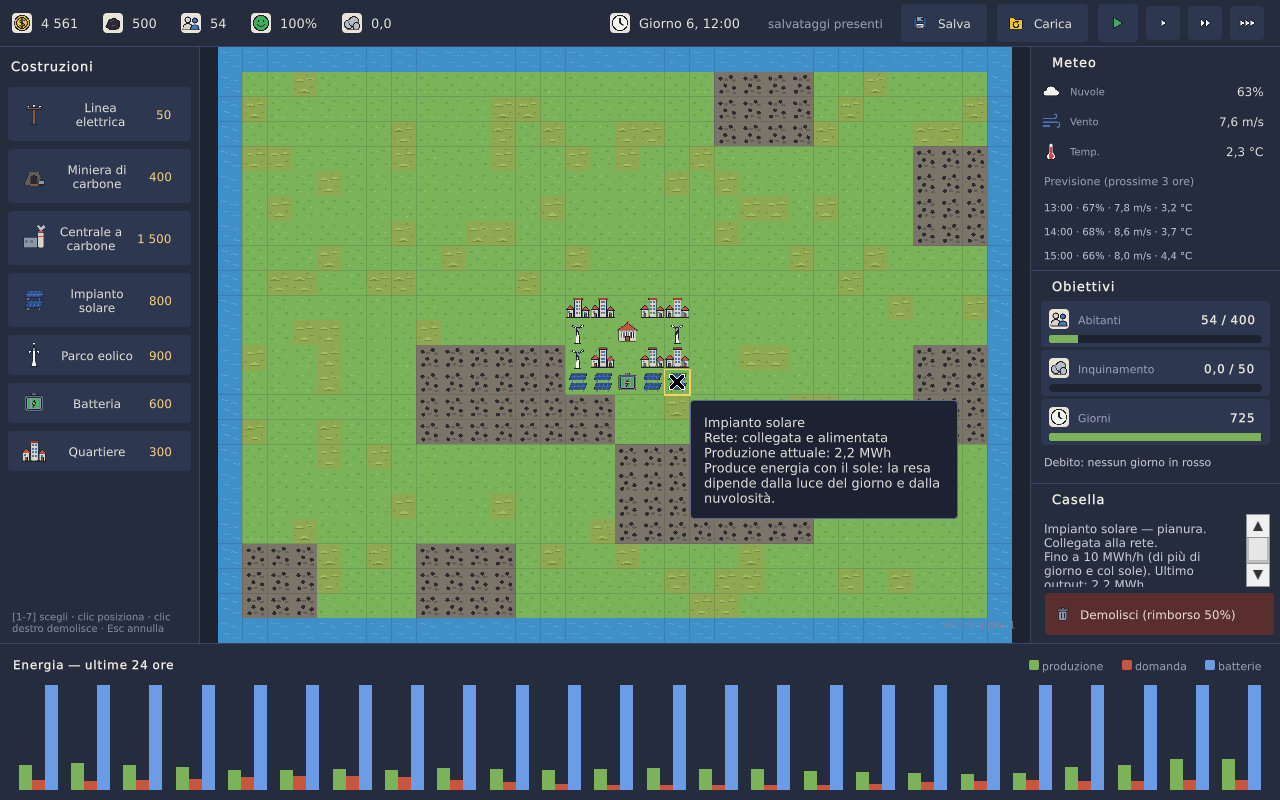
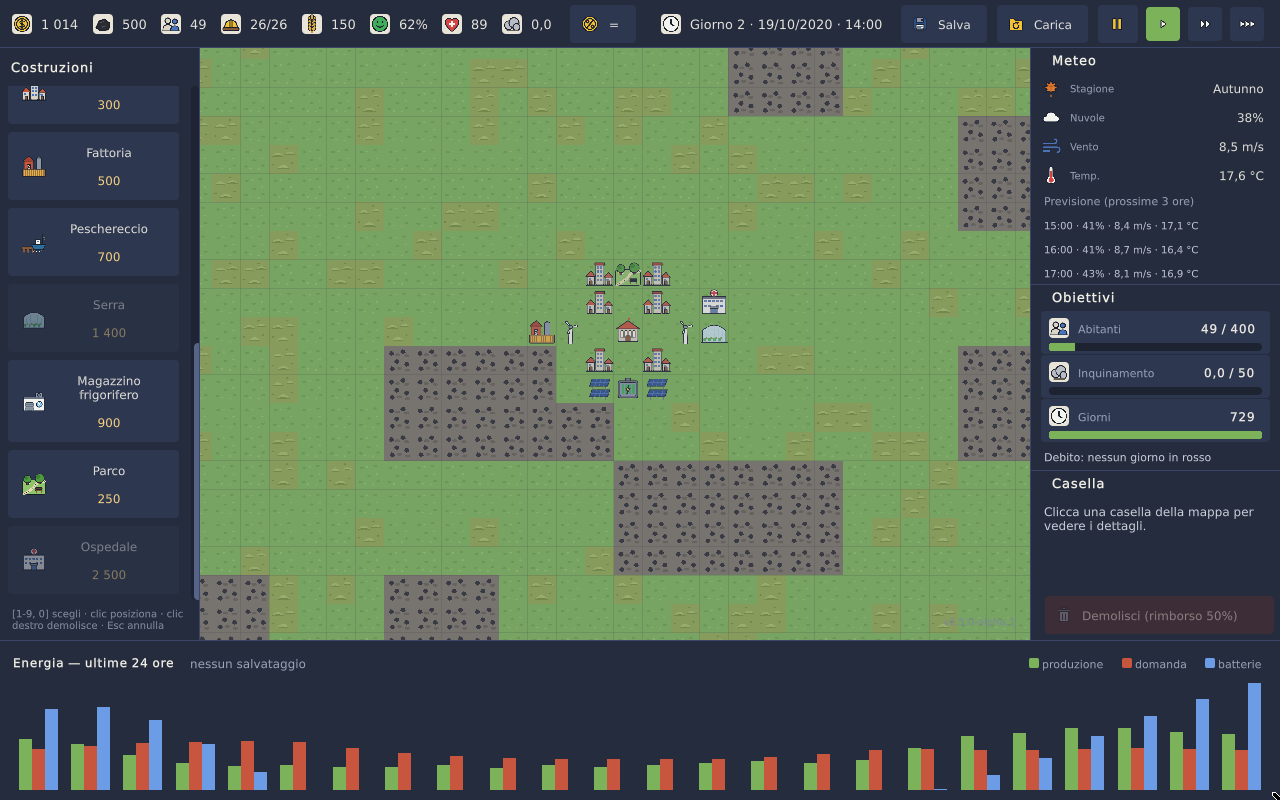
0.5.0-alpha.1: felicità, salute e tasse (README, CHANGELOG, schermata nuova)

diff --git a/README.it.md b/README.it.md
@@ -23,7 +23,7 @@ senza debiti e senza soffocarla di inquinamento.
 
 Un gioco originale di **Marco Scarlino**. Gratuito.
 
-![Una partita al sesto giorno: impianti solari, parchi eolici e una batteria attorno al municipio](immagini/schermata-partita.png)
+![Una partita al secondo giorno: attorno al municipio quartieri, impianti solari, parchi eolici, una batteria, una fattoria, una serra, un parco e un ospedale](immagini/schermata-partita.png)
 
 > **Stato: in sviluppo (alpha).** Il gioco si gioca dall'inizio alla fine, ma mancano ancora molte cose e qualcosa
 > può non funzionare. Ogni segnalazione aiuta: vedi [Segnalare un problema o un'idea](#segnalare-un-problema-o-unidea).
@@ -89,8 +89,8 @@ calendario: si parte in autunno, e d'inverno le giornate sono più corte e il ci
 - **Batterie**: accumulano l'energia in più e la restituiscono quando serve, per esempio la sera.
 - **Il surplus** si vende alla rete esterna, ma più ne offri e meno vale.
 - **Inquinamento**: le centrali a carbone inquinano e l'aria si pulisce piano. Una centrale si regge, troppe no.
-  Sopra la soglia la gente è scontenta e la città smette di crescere.
-- **Crescita**: la città cresce se gli abitanti sono contenti, c'è posto nei **quartieri** e c'è abbastanza
+  Fa ammalare gli abitanti, e sopra la soglia non si vince.
+- **Crescita**: la città cresce se gli abitanti sono abbastanza **felici**, c'è posto nei **quartieri** e c'è abbastanza
   **cibo** in magazzino.
 
 ### Lavoro e personale
@@ -102,9 +102,9 @@ Le costruzioni hanno bisogno di qualcuno che le faccia funzionare.
   **cibo** hanno bisogno di personale. Il pannello **Casella** mostra quanto ne hanno, per esempio **Personale: 8/10**.
 - Con poco personale una costruzione produce meno; **senza nessuno si ferma** e mostra il segnale **«senza
   personale»**.
-- I lavoratori vanno **prima all'energia**, poi **al cibo**, poi **alle miniere**, poi **ai servizi dei quartieri** (negozi, scuole
+- I lavoratori vanno **prima all'energia**, poi **al cibo**, poi **agli ospedali**, poi **alle miniere**, poi **ai servizi** (quartieri e parchi) (negozi, scuole
   di quartiere). I quartieri funzionano anche quando ai loro servizi manca personale.
-- La **disoccupazione** fa entrare meno tasse e, se è alta, rende gli abitanti un po' meno contenti.
+- La **disoccupazione** fa entrare meno tasse e, se è alta, rende gli abitanti meno felici.
 
 ### Cibo
 
@@ -123,6 +123,21 @@ sta per finire.
 - Il pannello **Casella** mostra quanto produce ogni costruzione (per esempio **Cibo: 2,0/h**), quanto spazio
   aggiunge un frigorifero e quanta energia consuma.
 
+### Felicità, salute e tasse
+
+- **Felicità** (lo smile nella barra in alto): si muove piano verso un valore che è la somma di alcuni fattori, cioè
+  blackout delle ultime 24 ore, cibo, fame, disoccupazione, inquinamento, salute, parchi e tasse. Passando il
+  mouse sul numero vedi verso quale valore sta andando e quanto pesa ogni fattore, per esempio «Blackout −5,0» o
+  «Parchi +3,0». Sotto 60 la città non cresce, e sotto 35 la gente comincia ad andarsene.
+- **Salute** (il cuore): cala con l'inquinamento e con la fame. I **malati restano a casa**, quindi ci sono meno
+  lavoratori, e una città poco sana è anche meno felice.
+- **Ospedale** (pianura): cura fino a 250 abitanti, ha bisogno di personale e consuma energia. Durante un
+  blackout non cura. Indispensabile se punti sul carbone.
+- **Parco** (pianura o collina): rende la gente più felice. Conta di più in una città piccola: ogni parco vale +3
+  ogni 100 abitanti, fino a +10.
+- **Tasse**: tre livelli, basse, normali e alte, con il pulsante con la moneta nella barra in alto o il tasto
+  **T**. Tasse alte portano più soldi ma meno felicità; tasse basse fanno il contrario.
+
 ### Comandi
 
 Passa il mouse su qualsiasi icona o pulsante: un riquadro spiega che cos'è. Fermandolo su una costruzione della
@@ -130,7 +145,7 @@ mappa vedi il suo stato e quanta energia produce o consuma.
 
 | Comando | Cosa fa |
 |---|---|
-| Tasti **1–9** e **0** | Scegli cosa costruire: linea elettrica, miniera di carbone, centrale a carbone, impianto solare, parco eolico, batteria, quartiere, fattoria, peschereccio, serra. Il magazzino frigorifero si sceglie dalla lista a sinistra |
+| Tasti **1–9** e **0** | Scegli cosa costruire: linea elettrica, miniera di carbone, centrale a carbone, impianto solare, parco eolico, batteria, quartiere, fattoria, peschereccio, serra. Magazzino frigorifero, parco e ospedale si scelgono dalla lista a sinistra |
 | **Clic sinistro** | Posa la costruzione scelta. Senza nessuna scelta seleziona una casella e ne mostra i dettagli |
 | **Clic destro** (sul tablet: tocco lungo) | Con una costruzione scelta, annulla la scelta. Senza scelta, chiede conferma per demolire (rimborso di metà del costo) |
 | **Esc** | Annulla la scelta; se non c'è niente da annullare apre il **menu di pausa** (Riprendi, Salva ed esci al menu, Nuova partita, Lingua) |
@@ -138,6 +153,7 @@ mappa vedi il suo stato e quanta energia produce o consuma.
 | **Spazio** o pulsante ▶/❚❚ | Pausa / riprendi |
 | **F** o pulsanti delle frecce | Velocità 1×, 2×, 4× |
 | **V** | Avanza di un'ora sola |
+| **T** o pulsante con la moneta | Tasse basse, normali, alte |
 | **WASD** o **frecce**, tasto centrale del mouse | Sposta la vista |
 | **Rotella** | Zoom |
 | **Salva** / **Carica** (in alto) | Salva o riprende la partita. Il gioco salva anche da solo ogni giorno |
@@ -169,7 +185,9 @@ una lingua aggiungendo `?lingua=it` (oppure `en`, `de`, `fr`, `es`) all'indirizz
 5. Costruisci **quartieri** man mano che la produzione regge la domanda.
 6. Metti presto una **fattoria** e pensa all'inverno: d'inverno le fattorie si fermano, e servono una scorta,
    un peschereccio o una serra.
-7. Tieni d'occhio il **grafico in basso**: se la linea rossa (domanda) supera la verde (produzione), sta per
+7. Un **parco** presto alza la felicità quando la città è piccola. Se costruisci centrali a carbone, pensa a un
+   **ospedale**.
+8. Tieni d'occhio il **grafico in basso**: se la linea rossa (domanda) supera la verde (produzione), sta per
    arrivare un blackout.
 
 ## Dove finiscono i salvataggi
@@ -187,6 +205,9 @@ vecchia resta dov'è. La **lingua** va scelta di nuovo, una volta sola.
 
 **Dalla 0.4.0** i salvataggi hanno un formato nuovo. Quelli delle versioni precedenti si caricano lo stesso: la
 città riparte con la scorta di cibo iniziale. Un salvataggio della 0.4.0 non si apre con le versioni precedenti.
+
+**Dalla 0.5.0** il formato cambia di nuovo: tasse e salute. I salvataggi delle versioni precedenti si caricano con
+tasse normali e salute iniziale. Un salvataggio della 0.5.0 non si apre con le versioni precedenti.
 
 I salvataggi di una versione alpha potrebbero non funzionare con la versione successiva: lo scrive il
 [changelog](CHANGELOG.md) quando succede.

diff --git a/README.md b/README.md
@@ -23,7 +23,7 @@ blackouts, without debt and without choking it with pollution.
 
 An original game by **Marco Scarlino**. Free to play.
 
-![A game on day six: solar farms, wind farms and a battery around the town hall](immagini/schermata-partita.png)
+![A game on day two: around the town hall, districts, solar farms, wind farms, a battery, a farm, a greenhouse, a park and a hospital](immagini/schermata-partita.png)
 
 > **Status: in development (alpha).** You can play from start to finish, but a lot is still missing and some
 > things may not work. Every report helps: see [Reporting a problem or an idea](#reporting-a-problem-or-an-idea).
@@ -88,8 +88,8 @@ days are shorter and the sky is cloudier.
 - **Batteries** store the extra energy and give it back when needed, for example in the evening.
 - **Surplus energy** is sold to the outside grid, but the more you offer, the less it's worth.
 - **Pollution**: coal power plants pollute and the air clears slowly. One power plant is fine, too many are not.
-  Above the limit people are unhappy and the town stops growing.
-- **Growth**: the town grows if residents are happy, there's room in the **districts** and there's enough
+  It makes residents sick, and above the limit you can't win.
+- **Growth**: the town grows if residents are **happy** enough, there's room in the **districts** and there's enough
   **food** in store.
 
 ### Work and staff
@@ -101,9 +101,9 @@ Buildings need people to run them.
   how many they have, for example **Staff: 8/10**.
 - With too few staff a building produces less; **with no staff at all it stops** and shows the **«no staff»**
   signal.
-- Workers go **to energy first**, then **to food**, then **to the mines**, then **to district services** (shops, local schools).
+- Workers go **to energy first**, then **to food**, then **to hospitals**, then **to the mines**, then **to services** (districts and parks).
   Districts keep working even when their services are short of staff.
-- **Unemployment** means less tax income, and if it's high, slightly less happy residents.
+- **Unemployment** means less tax income, and if it's high, less happy residents.
 
 ### Food
 
@@ -122,6 +122,21 @@ running low.
 - The **Tile** panel shows how much each building produces (for example **Food: 2.0/h**), how much room a cold
   store adds, and how much power it uses.
 
+### Happiness, health and taxes
+
+- **Happiness** (the smiley in the top bar): it moves slowly towards a value that is the sum of a few factors,
+  namely blackouts in the last 24 hours, food, hunger, unemployment, pollution, health, parks and taxes. Hover
+  over the number to see where it's heading and how much each factor weighs, for example «Blackouts −5.0» or
+  «Parks +3.0». Below 60 the town doesn't grow, and below 35 people start to leave.
+- **Health** (the heart): drops with pollution and hunger. **Sick people stay home**, so there are fewer workers,
+  and an unhealthy town is also a less happy one.
+- **Hospital** (plains): treats up to 250 residents, needs staff and uses power. It can't treat anyone during a
+  blackout. A must if you go for coal.
+- **Park** (plains or hills): makes people happier. It counts for more in a small town: each park is worth +3 per
+  100 residents, up to +10.
+- **Taxes**: three levels, low, normal and high, with the coin button in the top bar or the **T** key. High taxes
+  bring in more money but less happiness; low taxes do the opposite.
+
 ### Controls
 
 Hover over any icon or button: a tooltip explains what it is. Hover over a building on the map to see its status
@@ -129,7 +144,7 @@ and how much energy it produces or uses.
 
 | Control | What it does |
 |---|---|
-| Keys **1–9** and **0** | Pick what to build: Power line, Coal mine, Coal power plant, Solar farm, Wind farm, Battery, District, Farm, Fishing boat, Greenhouse. Pick the Cold store from the list on the left |
+| Keys **1–9** and **0** | Pick what to build: Power line, Coal mine, Coal power plant, Solar farm, Wind farm, Battery, District, Farm, Fishing boat, Greenhouse. Pick the Cold store, Park and Hospital from the list on the left |
 | **Left click** | Places the chosen building. With nothing chosen, selects a tile and shows its details |
 | **Right click** (on a tablet: long press) | With a building chosen, cancels the choice. With nothing chosen, asks to confirm demolition (half the cost refunded) |
 | **Esc** | Cancels the choice; if there's nothing to cancel, opens the **pause menu** (Resume, Save and quit to menu, New game, Language) |
@@ -137,6 +152,7 @@ and how much energy it produces or uses.
 | **Space** or the ▶/❚❚ button | Pause / resume |
 | **F** or the arrow buttons | Speed 1×, 2×, 4× |
 | **V** | Advance by a single hour |
+| **T** or the coin button | Low, normal, high taxes |
 | **WASD** or **arrow keys**, middle mouse button | Move the view |
 | **Mouse wheel** | Zoom |
 | **Save** / **Load** (at the top) | Saves or resumes the game. The game also saves by itself every day |
@@ -167,7 +183,9 @@ straight away by adding `?lingua=en` (or `it`, `de`, `fr`, `es`) to the address.
 5. Build **districts** as long as production keeps up with demand.
 6. Put down a **farm** early and plan for winter: farms stop in winter, so you need a stock, a fishing boat or a
    greenhouse.
-7. Keep an eye on the **chart at the bottom**: if the red line (demand) goes above the green one (production), a
+7. An early **park** lifts happiness while the town is small. If you build coal power plants, plan a
+   **hospital**.
+8. Keep an eye on the **chart at the bottom**: if the red line (demand) goes above the green one (production), a
    blackout is coming.
 
 ## Where saves are stored
@@ -185,6 +203,9 @@ stays where it is. You'll need to choose your **language** again once.
 
 **From 0.4.0** saves use a new format. Saves from earlier versions still load: the town restarts with the
 starting food stock. A 0.4.0 save doesn't open in earlier versions.
+
+**From 0.5.0** the format changes again: taxes and health. Saves from earlier versions load with normal taxes and
+the starting health. A 0.5.0 save doesn't open in earlier versions.
 
 Saves from one alpha version might not work with the next one: the [changelog](CHANGELOG.md) says so when it
 happens.

diff --git a/CHANGELOG.md b/CHANGELOG.md
@@ -12,6 +12,48 @@ Ogni versione ha queste sezioni, quando servono:
 
 ## [Non ancora pubblicata]
 
+## [0.5.0-alpha.1] - 2026-11-15
+
+Felicità, salute e tasse. *Happiness, health and taxes.*
+
+### Novità
+- **Felicità leggibile**: va piano verso la somma di alcuni fattori, cioè blackout delle ultime 24 ore, cibo,
+  fame, disoccupazione, inquinamento, salute, parchi e tasse. Passando il mouse sul numero si vede quanto pesa
+  ognuno. Sotto 35 la gente comincia ad andarsene.
+- **Salute**: cala con l'inquinamento e la fame. I malati restano a casa e mancano al lavoro.
+- **Ospedale**: cura fino a 250 abitanti; ha bisogno di personale e di corrente.
+- **Parco**: alza la felicità, soprattutto in una città piccola.
+- **Tasse a tre livelli** (basse, normali, alte): pulsante con la moneta nella barra in alto o tasto **T**.
+- Nel pannello **Casella**: la copertura dell'ospedale e la felicità di un parco.
+- Luci di notte anche sull'ospedale.
+
+### Modifiche
+- I lavoratori vanno all'energia, al cibo, **agli ospedali**, alle miniere e infine ai servizi.
+- La città cresce un po' più in fretta, per compensare una felicità che ora sta di solito fra 70 e 85.
+- **Barre di scorrimento** della lista delle costruzioni e delle informazioni della Casella: scure e sottili, nello
+  stile del gioco.
+- Barra in alto più compatta: la data non viene più tagliata nelle lingue con parole lunghe.
+
+### Correzioni
+- Il riquadro «Apri il sito dell'autore» non resta più sulla mappa dopo aver lasciato il menu.
+
+### Da sapere
+- **Salvataggi in formato nuovo.** Quelli delle versioni precedenti si caricano con tasse normali e salute
+  iniziale. I salvataggi della 0.5.0 non si aprono con le versioni precedenti.
+
+### In English
+- **Readable happiness**: it moves slowly towards the sum of a few factors (blackouts in the last 24 hours, food,
+  hunger, unemployment, pollution, health, parks, taxes); hover over it to see each one. Below 35 people leave.
+- **Health**: drops with pollution and hunger; sick people stay home from work.
+- **Hospital** (treats up to 250 residents, needs staff and power) and **park** (more happiness, especially in a
+  small town).
+- **Three tax levels** with the coin button or the **T** key.
+- Jobs go to energy, food, **hospitals**, mines, then services. The town grows a little faster.
+- Dark, slim **scroll bars**; a more compact top bar, so the date is no longer cut off.
+- Fixed: the «Open the author's website» tooltip no longer stays on the map.
+- **New save format**: older saves load with normal taxes and starting health; 0.5.0 saves don't open in older
+  versions.
+
 ## [0.4.0-alpha.2] - 2026-11-15
 
 Correzioni alla 0.4.0-alpha.1. *Fixes for 0.4.0-alpha.1.*
